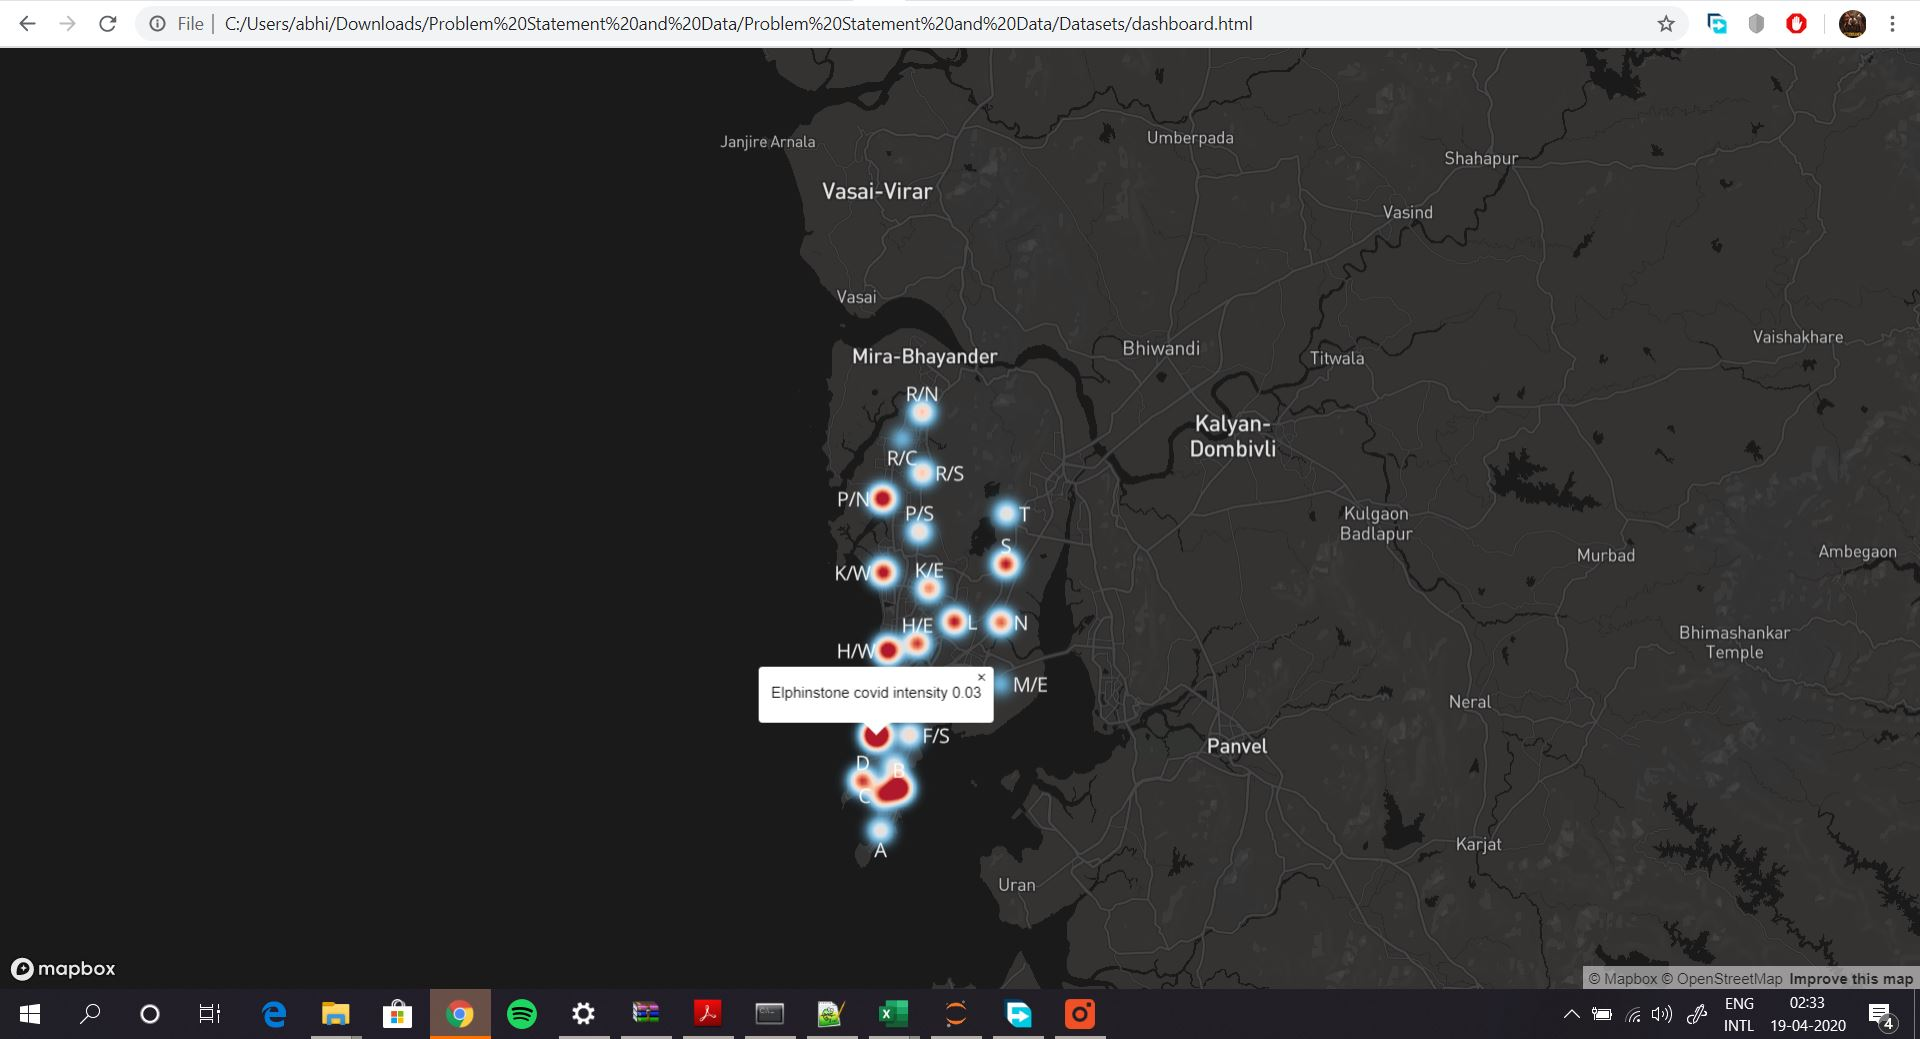
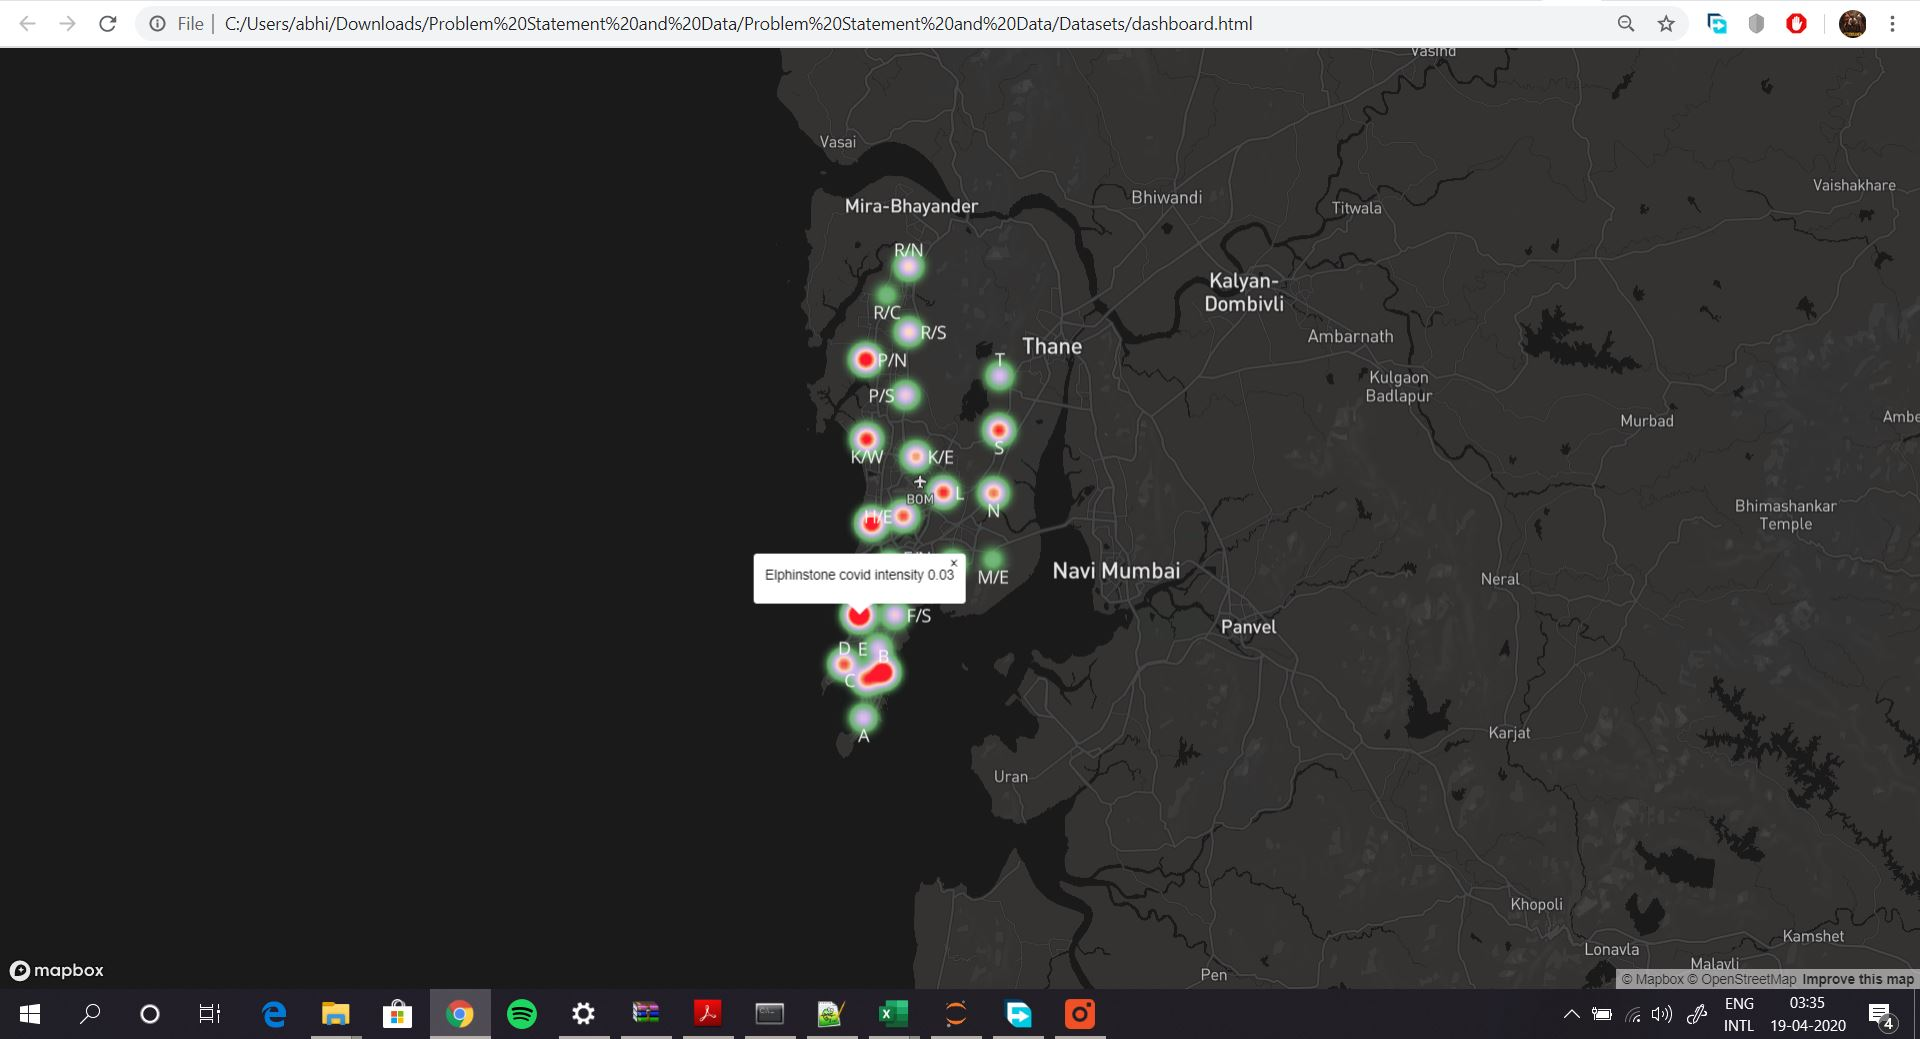
Add files via upload

diff --git a/dashboard.html b/dashboard.html
@@ -43,9 +43,9 @@ map.on('load', function() {
                         'interpolate',
                         ['linear'],
                         ['get', 'scaled_heat_value'],
-                        -2,
+                        -1,
                         0,
-                        30,
+                        25,
                         2
                     ],
                     // Increase the heatmap color weight weight by zoom level
@@ -56,7 +56,7 @@ map.on('load', function() {
                         ['zoom'],
                         0,
                         1,
-                        9,
+                        12,
                         3
                     ],
                     // Color ramp for heatmap.  Domain is 0 (low) to 1 (high).
@@ -68,16 +68,16 @@ map.on('load', function() {
                         ['heatmap-density'],
                         0,
                         'rgba(33,102,172,0)',
-                        0.2,
-                        'rgb(103,169,207)',
+                        0.1,
+                        'rgb(103,180,107)',
                         0.4,
-                        'rgb(209,229,240)',
+                        'rgb(209,180,240)',
                         0.6,
                         'rgb(253,219,199)',
                         0.8,
                         'rgb(239,138,98)',
                         1,
-                        'rgb(178,24,43)'
+                        'rgb(255,24,43)'
                     ],
                     // Adjust the heatmap radius by zoom level
                     'heatmap-radius': [
@@ -86,7 +86,7 @@ map.on('load', function() {
                         ['zoom'],
                         0,
                         2,
-                        9,
+                        2,
                         20
                     ]
                 }
